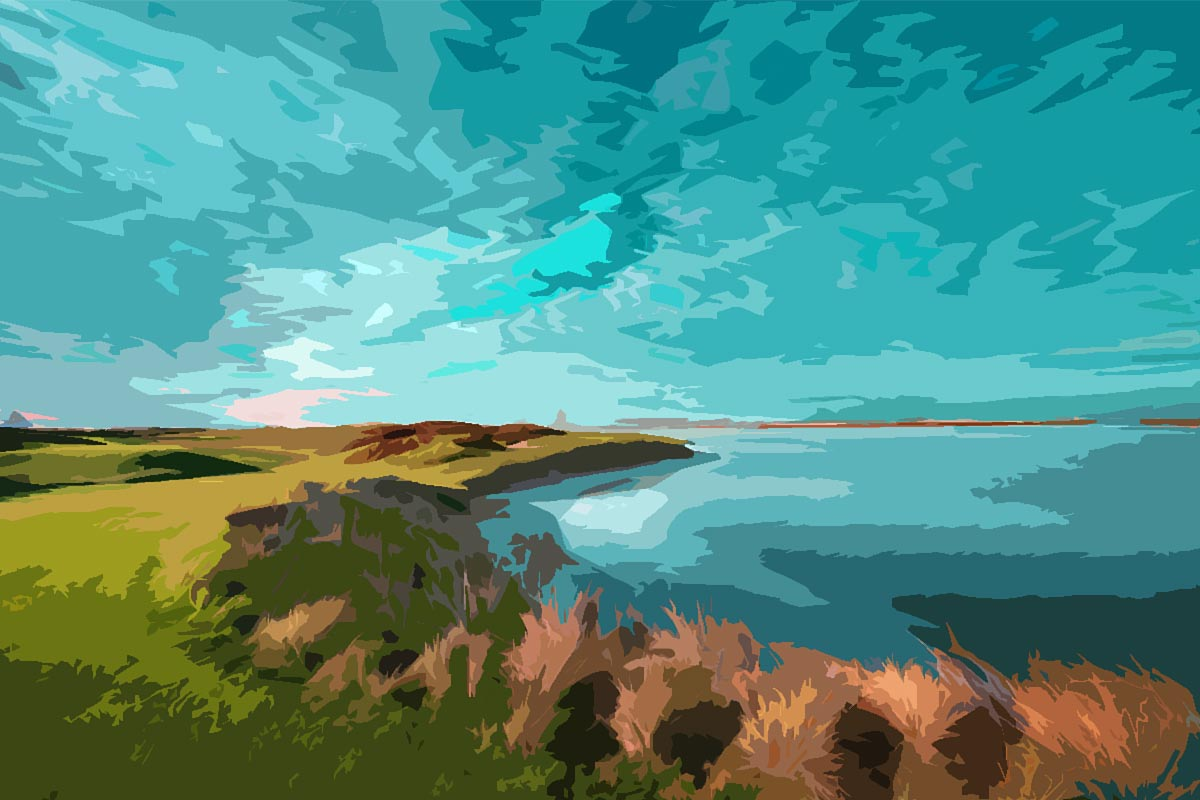
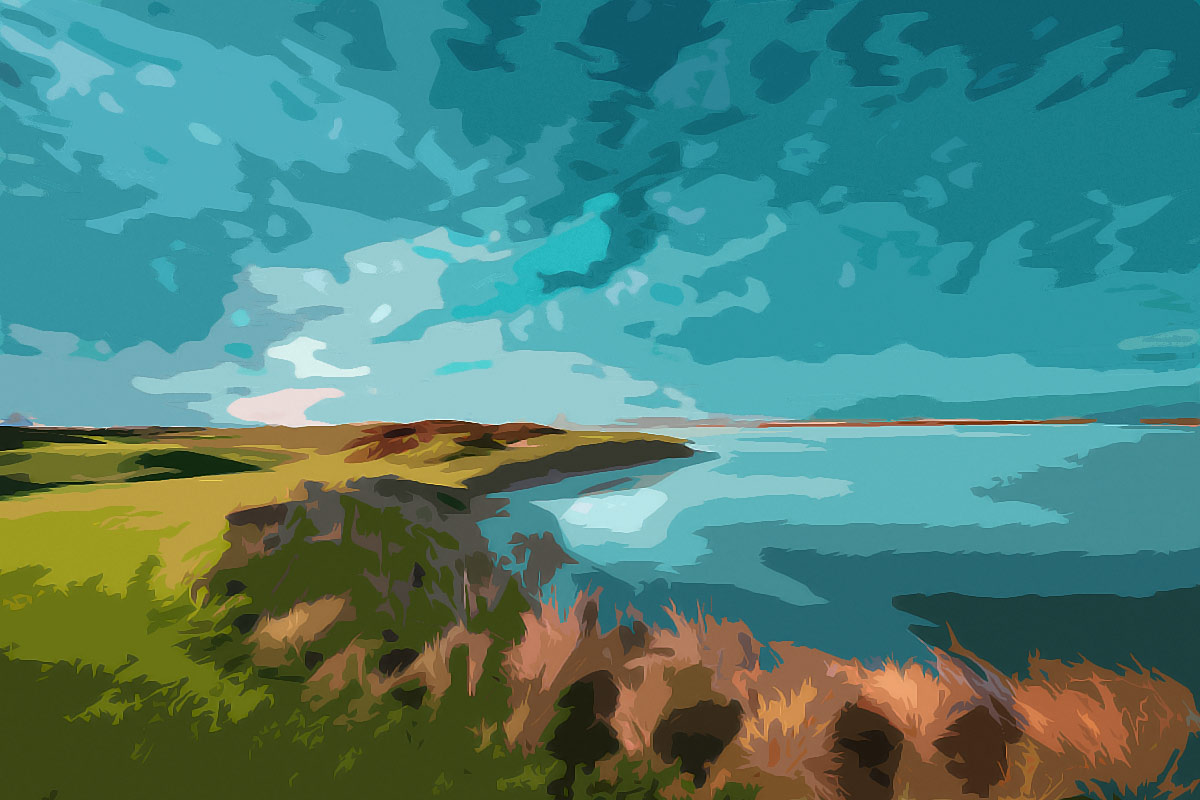
numerous minor styling changes and simplification and  backgrounds optimisation + rm old helper specs

diff --git a/app/assets/stylesheets/custom.css.scss b/app/assets/stylesheets/custom.css.scss
@@ -108,12 +108,9 @@ small {
 center h1 {
 	text-align:center!important;
 }
-.universe {
-	color: $asphalt;
-	display: inline;
-	margin: 0 5px 0 0;
+.center {
+	text-align:center;
 }
-
 /* custom colors */
 
 green, green a {
@@ -121,6 +118,11 @@ green, green a {
 }
 red, red a {
 	color: $red;
+}
+.universe {
+	color: $asphalt;
+	display: inline;
+	margin: 0 5px 0 0;
 }
 
 .green-bg, tr.green-bg td {
@@ -130,6 +132,7 @@ red, red a {
 		color: #fff!important;
 	}
 }
+
 /*----------------------Containers ------------------------------*/
 
 #wrap {
@@ -296,6 +299,10 @@ body .sublimevideo-zi .sublimevideo-uj {
   }
 }
 
+.upload-form, .instructions {
+	display:inline-block;
+	margin:5px;
+}
 /*--------------------- Questions index ---------------------*/
 
 /*=videos=*/
@@ -625,6 +632,11 @@ body #header-search {
 }
 #question-box {
 	position: relative;
+	padding:10px;
+	-moz-box-sizing: border-box;
+	-webkit-box-sizing: border-box;
+	box-sizing: border-box;
+	border: 1px solid #eee;
 }
 .action_links, .profile, .edit-destroy-links {
 	display:inline;
@@ -676,7 +688,7 @@ body #header-search {
 
 .related {
 	height: auto;
-	padding: 5px 0 5px;
+	padding: 5px;
 	border-bottom: 1px solid #eee;
 	position:relative;
 	-moz-box-sizing: border-box;
@@ -696,13 +708,13 @@ body #header-search {
 	}
 }
 .related-questions {
-	margin: 0 0 10px;
+	margin: 0 0 5px;
 }
 #related {
 	width:100%;
 }
 .related:last-of-type {
-	margin-bottom: 20px;
+	margin-bottom: 5px;
 }
 .relatedh2 {
 	margin: 0px 0 5px;
@@ -858,7 +870,7 @@ body #header-search {
 	font-weight:bolder;
 	display: inline-block;
 	padding: 0px;
-	margin: 6px 0 0;
+	margin: 7px 0 0;
 	font-family: 'BebasNeueRegular';
 	width: 55px;
 }
@@ -873,6 +885,9 @@ body #header-search {
 	font-size: 42px;
 	float:left;
 	margin: 0 3px 0 0;
+}
+table .default-tick, .default-tick a {
+	float:none;
 }
 /*-------------------- Votes ----------------*/
 

diff --git a/app/assets/stylesheets/backgrounds.css.scss b/app/assets/stylesheets/backgrounds.css.scss
@@ -47,7 +47,7 @@ body .transparent {
 	background: url(backgrounds/bally-bunion.jpg);
 }
 .sandy-hills-xl {
-	background: url(backgrounds/sandy-hills-cutout.jpg);
+	background: url(backgrounds/sandy-hills-xl.jpg);
 }
 .heath-cutout-xl {
 	background: url(backgrounds/heath-cutout.jpg);
@@ -73,7 +73,7 @@ body .transparent {
 .container .banff-cutout {
 	background: url(backgrounds/banff-cutout.jpg);
 	color: #fff;
-	background-position: center 50%;
+	background-position: center 58%;
 }
 .container .bally-bunion {
 	background: url(backgrounds/bally-bunion.jpg);
@@ -103,7 +103,7 @@ body .transparent {
 .container .sandy-hills {
 	background: url(backgrounds/sandy-hills-cutout.jpg);
 	color: #fff;
-	background-position: center 52%;
+	background-position: center 90%;
 }
 .container .heath {
 	background: url(backgrounds/Heath.jpg);
@@ -118,7 +118,7 @@ body .transparent {
 .container .yas-links {
 	background: url(backgrounds/Yas-links.jpg);
 	color: #fff;
-	background-position: center 50%;
+	background-position: center 95%;
 }
 .blue {
 	background: $sky;

diff --git a/app/assets/javascripts/video_select.js b/app/assets/javascripts/video_select.js
@@ -5,6 +5,6 @@ jQuery(function() {
 	video.click(function() {
 		icon.hide();
   		form.val(form.val() == $(this).data("id") ? 0 : ($(this).data("id"))); 
-		form.val() == $(this).data("id") ? $(this).find('.selected').show() : $(this).find('.selected').hide();
+		form.val() == $(this).data("id") ? $(this).find('.selected').fadeIn(100) : $(this).find('.selected').fadeOut(100);
 	});
 });

diff --git a/app/assets/stylesheets/icons.css.scss b/app/assets/stylesheets/icons.css.scss
@@ -15,11 +15,11 @@
 	text-shadow: 0px 2px 0px #fff;
 }
 .right-margin {
-	margin: 0 15px 0 0;
+	margin: 0 10px 0 0;
 }
 .xl {
 	vertical-align:middle;
-	font-size: 105px;
+	font-size: 100px;
 }
 .upload-icon {
 	margin: 5px 10px;

diff --git a/app/assets/stylesheets/responsive.scss b/app/assets/stylesheets/responsive.scss
@@ -301,4 +301,8 @@
 		border-bottom: 1px solid #eee;
 		margin-bottom: 10px;
 	}
+	#question-box {
+		padding:0px;
+		border: 0px solid #eee;
+	}
 }

diff --git a/app/helpers/video_helper.rb b/app/helpers/video_helper.rb
@@ -16,18 +16,6 @@ module VideoHelper
   def sublimevideo_rails
     @site_token = load_config("sublime.yml")["SITE"]["TOKEN"]
   end
-  
-  #remove?
-  def video_select(video)
-   "var form = $('#question_video_id');
-	  var icon = $('.#{video.id}_icon');
-	  var video = $('##{video.id}');
-	  $('.selected').hide();
-		$('.videos').removeClass('shadow');
-	  form.val(form.val() == #{video.id} ? 0 : #{video.id});  
-	  form.val() == #{video.id} ? icon.show() : icon.hide();
-	  form.val() ==  #{video.id} ? video.addClass('shadow') : video.removeClass('shadow');"
-	end
 
   def load_config(filename)
     YAML::load(ERB.new(IO.read("config/#{filename}")).result)

diff --git a/spec/helpers/video_helper_spec.rb b/spec/helpers/video_helper_spec.rb
@@ -27,11 +27,4 @@ describe VideoHelper do
       helper.sublimevideo_rails.should eq "27jd216p"
     end
   end
-  
-  describe "video_select" do
-    it "renders the correct js" do
-      video = create(:video)
-      helper.video_select(video).should eq "var form = $('#question_video_id');\n\t  var icon = $('.1_icon');\n\t  var video = $('#1');\n\t  $('.selected').hide();\n\t\t$('.videos').removeClass('shadow');\n\t  form.val(form.val() == 1 ? 0 : 1);  \n\t  form.val() == 1 ? icon.show() : icon.hide();\n\t  form.val() ==  1 ? video.addClass('shadow') : video.removeClass('shadow');"
-  	  end
-	  end
 end

diff --git a/config/environments/development.rb b/config/environments/development.rb
@@ -10,7 +10,7 @@ TeeboxNetwork::Application.configure do
   config.whiny_nils = true
 
   # Show full error reports and disable caching
-  config.consider_all_requests_local       = true
+  config.consider_all_requests_local       = false
   config.action_controller.perform_caching = false
 
   # Mailer settings default to mailcatcher

diff --git a/app/helpers/application_helper.rb b/app/helpers/application_helper.rb
@@ -3,7 +3,7 @@ module ApplicationHelper
   def points_from_correct(question)
     if question.correct == true
       correct = question.answers.find_by_correct(true)
-      correct ? (correct.try(:user) == question.user ? "" : "+5") : ""
+      correct ? (correct.try(:user) == question.user ? "0" : "+5") : "0"
     end
 	end
   

diff --git a/app/models/report.rb b/app/models/report.rb
@@ -7,7 +7,7 @@ class Report < ActiveRecord::Base
   before_save :set_totals
   after_create :set_averages
   
-  default_scope order('created_at DESC')
+  default_scope order('created_at')
   
   def set_records
     self.questions = record_query(Question)

diff --git a/db/migrate/20131023184933_add_missing_indexes.rb b/db/migrate/20131023184933_add_missing_indexes.rb
@@ -1,0 +1,6 @@
+class AddMissingIndexes < ActiveRecord::Migration
+  def change
+    add_index :votes, [:votable_id, :votable_type]
+    add_index :votes, :user_id
+  end
+end

diff --git a/app/decorators/application_decorator.rb b/app/decorators/application_decorator.rb
@@ -1,6 +1,4 @@
 class ApplicationDecorator < Draper::Decorator
   delegate_all
   include Draper::LazyHelpers
-
-
 end
